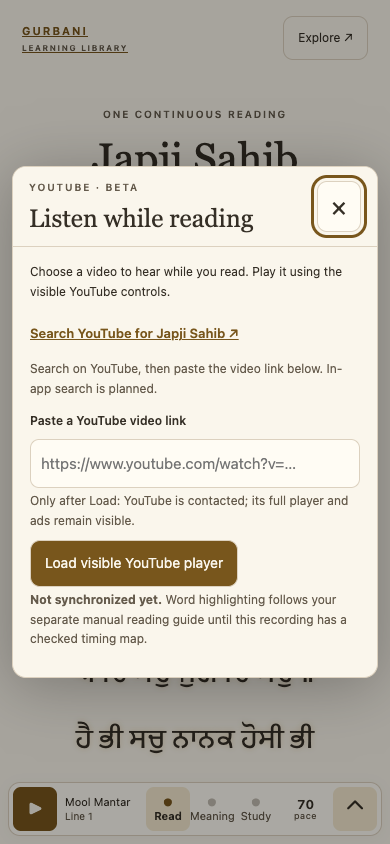
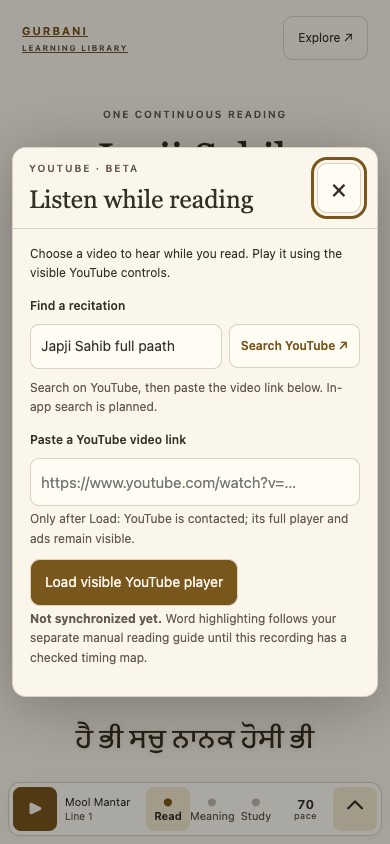
Polish user-entered video search and revalidate R8 offline shell

Changed region(s): [[0.0308, 0.154, 0.9846, 0.8318], [0.8923, 0.5237, 0.9231, 0.5545]]

diff --git a/sw.js b/sw.js
@@ -1,7 +1,7 @@
 /* Generated, verified static shell. No learning record is sent or cached. */
-const VERSION="0.9-japji-v1-r8-menu-listen-candidate-3";
+const VERSION="0.9-japji-v1-r8-menu-listen-candidate-4";
 const PREFIX='glp-static:'+self.registration.scope+':';const CACHE=PREFIX+VERSION;
[2 lines of base64/hex data omitted]
 self.addEventListener('install',e=>e.waitUntil((async()=>{
  const c=await caches.open(CACHE);
  try{await Promise.all(Object.entries(EXPECTED).map(async([asset,hash])=>{

diff --git a/js/youtube-ui.js b/js/youtube-ui.js
@@ -11,7 +11,8 @@
  function chooserHtml(){
   return '<div class="yt-chooser">'+
    '<p>Choose a video to hear while you read. Play it using the visible YouTube controls.</p>'+
-   '<a class="yt-search-link" href="https://www.youtube.com/results?search_query=Japji%20Sahib%20full%20paath" target="_blank" rel="noopener noreferrer">Search YouTube for Japji Sahib ↗</a>'+
+   '<label for="youtube-query" class="yt-label">Find a recitation</label>'+
+   '<div class="yt-search-row"><input id="youtube-query" type="search" value="Japji Sahib full paath" autocomplete="off" aria-label="Search YouTube for a Gurbani recording"><button type="button" id="youtube-search">Search YouTube ↗</button></div>'+
    '<p class="plain-note">Search on YouTube, then paste the video link below. In-app search is planned.</p>'+
    '<label for="youtube-url" class="yt-label">Paste a YouTube video link</label>'+
    '<input id="youtube-url" type="url" inputmode="url" autocomplete="off" autocapitalize="off" spellcheck="false" placeholder="https://www.youtube.com/watch?v=…" aria-describedby="youtube-chooser-note">'+
@@ -90,7 +91,12 @@
   panel.hidden=true;dialogHidden=true;
  }
  function resumeAfterDialog(){if(dialogHidden&&videoId){panel.hidden=false;dialogHidden=false;showStatus('YouTube paused while you studied. Press Play on the visible video player to resume.');}}
- $('youtube-close').addEventListener('click',close);
+ document.addEventListener('click',event=>{
+  if(event.target.id!=='youtube-search')return;
+  const search=document.getElementById('youtube-query')?.value?.trim()||'Japji Sahib';
+  window.open('https://www.youtube.com/results?search_query='+encodeURIComponent(search), '_blank', 'noopener,noreferrer');
+});
+$('youtube-close').addEventListener('click',close);
  document.addEventListener('visibilitychange',()=>{if(document.hidden&&videoId)pause();});
  window.addEventListener('pagehide',close);
  window.GLP_YOUTUBE=Object.freeze({chooserHtml,open,close,pause,hideForDialog,resumeAfterDialog,isOpen:()=>Boolean(videoId)});

diff --git a/css/japji-full.css b/css/japji-full.css
@@ -168,3 +168,7 @@ dialog[data-view="video-chooser"] .dialog-heading{padding:12px 16px}
 dialog[data-view="video-chooser"] .dialog-heading h2{font-size:25px}
 dialog[data-view="video-chooser"] #dialog-body{padding:12px 17px 18px}
 dialog[data-view="video-chooser"] .yt-chooser>p{margin:3px 0 10px;font-size:12px;line-height:1.65}
+/* R8 source selection remains app-labeled, opening YouTube search until API approved. */
+.yt-search-row{display:flex;flex-wrap:wrap;gap:7px;align-items:center;margin-bottom:9px}
+.yt-search-row input[type=search]{min-width:140px;flex:1;min-height:44px;font-size:14px;color:var(--ink);background:var(--surface);border:1px solid var(--line);border-radius:9px;padding:8px 10px}
+.yt-search-row button{min-height:44px;font-size:12px;padding:8px 11px;background:var(--surface);border:1px solid var(--line);border-radius:9px;color:var(--accent);font-weight:600}

diff --git a/docs/R8_LISTEN_FOLLOW_ARCHITECTURE.md b/docs/R8_LISTEN_FOLLOW_ARCHITECTURE.md
@@ -7,7 +7,7 @@ The current Reading controls modal fills nearly the entire iPhone screen with te
 
 ## What is technically supported by YouTube today
 1. **Selection/playback:** A user can search for a recording and select it, or paste an HTTPS YouTube video URL. The YouTube IFrame Player API supplies a **visible, genuine YouTube player** in our reader. Its `getCurrentTime()`, `onStateChange` and `seekTo` methods allow us to track a video time and react to pause/seek/play.
-2. **In-app search:** YouTube Data API `search.list` supports video-only/embeddable filters. It requires an authorized application configuration and use of a managed API credential. GitHub Pages is a public static site; do not put an unrestricted API key or provider secrets in its source. Use a bounded server-side search adapter with caching, rate limits, approved quota and explicit privacy notices; until then, a YouTube search link + paste-URL is the honest no-key fallback. Search success does not mean timed alignment exists.
+2. **In-app search:** YouTube Data API `search.list` supports video-only/embeddable filters. It requires an authorized application configuration and use of a managed API credential. GitHub Pages is a public static site; do not put an unrestricted API key or provider secrets in its source. Use a bounded server-side search adapter with caching, rate limits, approved quota and explicit privacy notices; until then, a labeled in-app query field that opens official YouTube Search results in a new tab, plus paste-URL is the honest no-key fallback. Search success does not mean timed alignment exists.
 3. **Time alignment:** `getCurrentTime()` knows **where the player is** but not **which Gurmukhi word is spoken**. YouTube's Data API `captions.list` provides track metadata only with authorization; arbitrary third-party caption downloads require video editing permission. Therefore claim neither automatic caption access nor universal word alignment.
 4. **The timing map:** A separately governed `recording_timings/<youtubeVideoId>/<mappingRevision>` holds `{videoId, sourceTextRelease, segments:[{occurrenceId, wordIndex?, startMs, endMs, confidence, provenance}], contributor, reviewStatus}`. Require monotonically non-overlapping times, full source-hash matching and explicit states `unmapped / candidate / line_checked / word_checked / rejected`. Display current-line glow from checked segments only. On video seek or speed change, consult the player clock directly instead of assuming nominal words/min. No padding, smoothing or interpolation may be called “matched” unless it is explicitly approximate.
 5. **Long-term automatic pipeline:** With permission from a performer/rightsholder, ingest a *separately supplied lawful recording*, segment introductions/commentary/repeats, align human-verified Gurmukhi with Punjabi-capable ASR/forced-alignment, then review sampled line/word boundaries by humans. Retain approved timing metadata and source provenance; do not copy or download arbitrary YouTube audiovisual content, extract audio from embedded players, or scrape subtitles. A first pilot should focus on 2–3 approved recordings at different paces. Unknown recordings remain visually **unsynchronized** until a lawful source-backed map is created.
